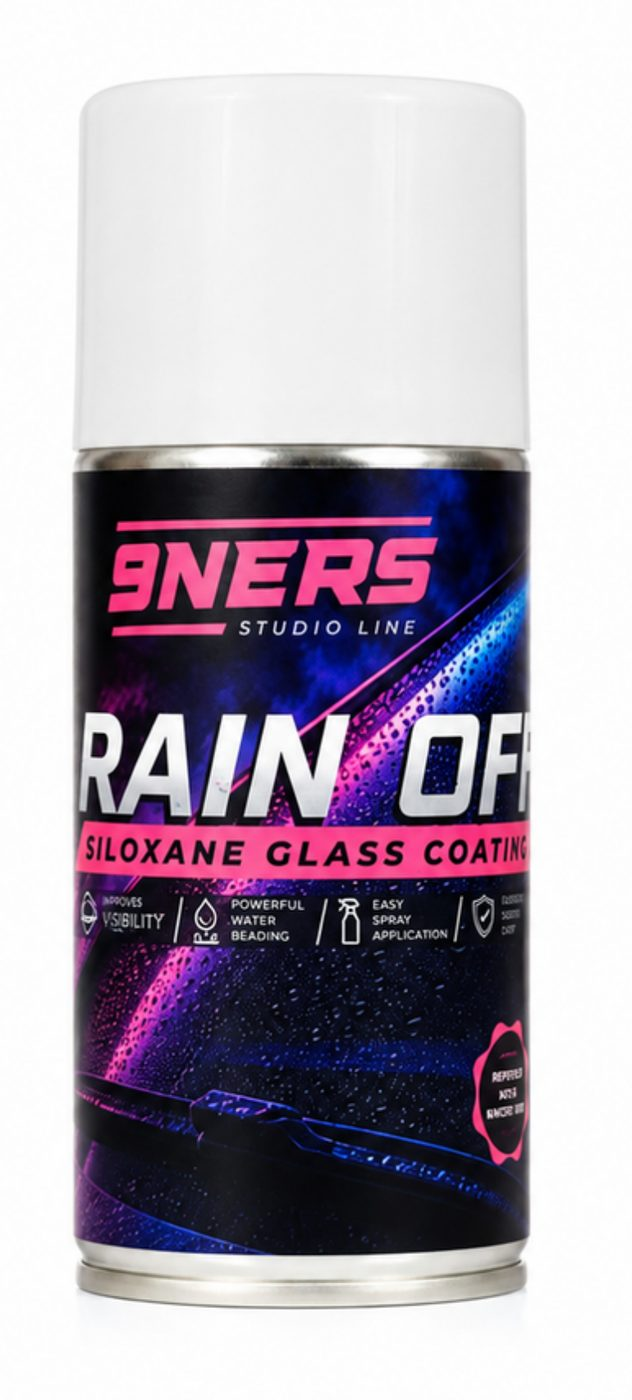
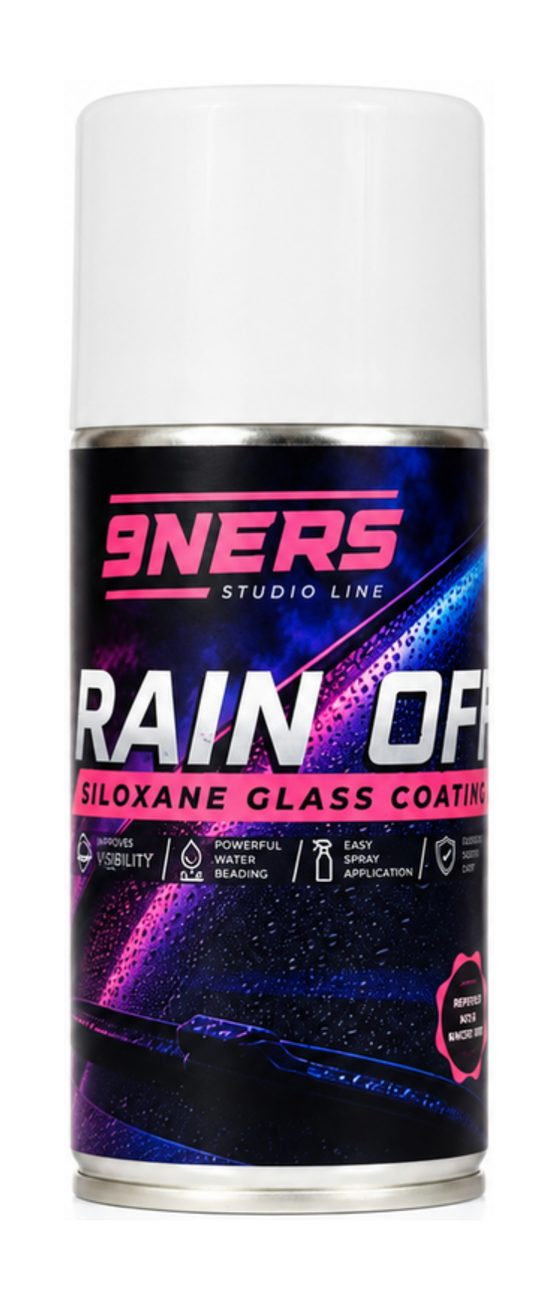
Fix Rain Off packshot: full-can recrop with margins, capped gallery height on product page

Changed region(s): [[0.0912, 0.0615, 0.8819, 0.9538], [0.5474, 0.8923, 0.6082, 0.9231], [0.3953, 0.8923, 0.4562, 0.9231]]

diff --git a/shop/rain-off/index.html b/shop/rain-off/index.html
@@ -50,8 +50,8 @@
 
   .product{background:var(--white);padding:72px 0 96px}
   .p-grid{display:grid;grid-template-columns:.95fr 1.05fr;gap:64px;align-items:start}
-  .gallery-main{border-radius:16px;overflow:hidden;margin-bottom:14px}
-  .gallery-main img{width:100%;height:auto;display:block}
+  .gallery-main{border-radius:16px;overflow:hidden;margin-bottom:14px;display:flex;justify-content:center;background:#fff}
+  .gallery-main img{width:auto;max-width:100%;max-height:480px;display:block}
   .thumbs{display:flex;gap:12px}
   .thumbs button{flex:1;background:var(--white);border:1px solid var(--line);border-radius:12px;padding:10px;cursor:pointer;transition:border-color .15s ease}
   .thumbs button.active{border-color:var(--purple)}
@@ -123,6 +123,7 @@
     .gallery-main img{max-height:380px}
   }
   @media (max-width:640px){
+    .gallery-main img{max-height:360px}
     .steps{grid-template-columns:1fr}
     .foot-grid{grid-template-columns:1fr}
     .vids{flex-direction:column;align-items:center}
